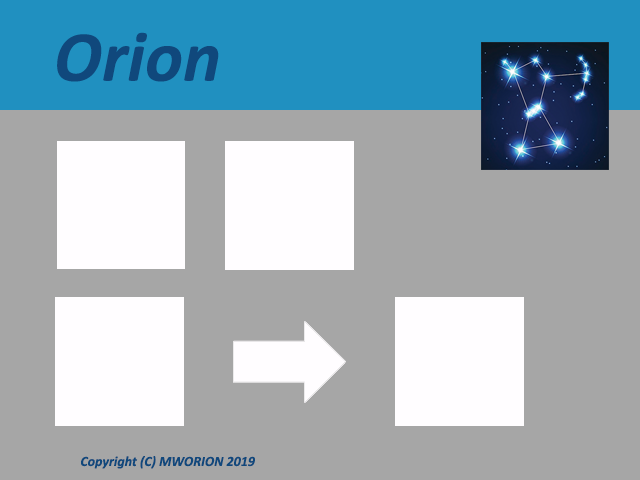
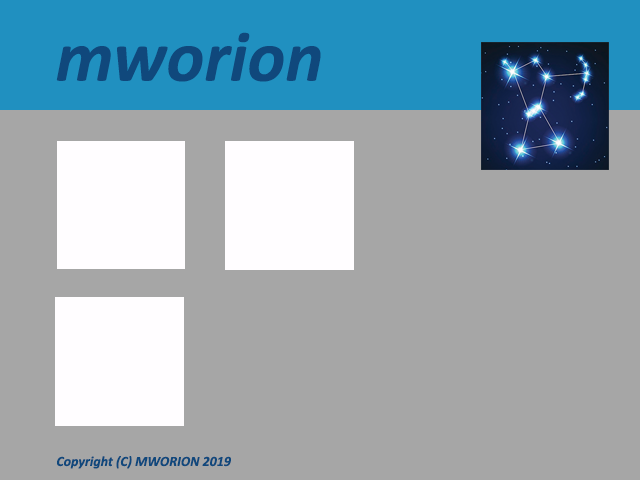
made dmg with web references

diff --git a/automation/remote_scripts/mac/dmg_settings.py b/automation/remote_scripts/mac/dmg_settings.py
@@ -45,11 +45,16 @@ format = defines.get('format', 'UDBZ')
 # Volume size
 size = defines.get('size', None)
 
+webloc_home = 'MW Home.webloc'
+webloc_docu = 'MW Docu.webloc'
+
 # Files to include
-files = [application]
+files = [application,
+         webloc_home,
+         webloc_docu]
 
 # Symlinks to create
-symlinks = {'Desktop': '/Users/mw/Desktop'}
+# symlinks = {'Desktop': '/Users/mw/Desktop'}
 
 # Volume icon
 #
@@ -60,10 +65,12 @@ symlinks = {'Desktop': '/Users/mw/Desktop'}
 icon = 'drive_mw4.icns'
 # badge_icon = 'drive_mw4.icns'
 
+
 # Where to put the icons
 icon_locations = {
+    webloc_home:    (120, 200),
+    webloc_docu:    (290, 200),
     appname:        (120, 360),
-    'Desktop':        (460, 360),
     }
 
 # .. Window configuration ......................................................

diff --git a/automation/collections/build_app.py b/automation/collections/build_app.py
@@ -65,20 +65,6 @@ def mac_local(c):
 
 
 @task(pre=[])
-def mac_local_work(c):
-    printMW('building mac app local work')
-    with c.cd('..'):
-        runMW(c, 'rm -rf dist/*.app')
-        runMW(c, 'rm -rf dist/*.dmg')
-    with c.cd('../../mountcontrol'):
-        runMW(c, 'pip install dist/mountcontrol-*.tar.gz')
-    with c.cd('../../indibase'):
-        runMW(c, 'pip install dist/indibase-*.tar.gz')
-    with c.cd('remote_scripts/mac'):
-        runMW(c, 'pyinstaller -y mw4_mac_local_work.spec')
-
-
-@task(pre=[])
 def mac(c):
     printMW('build mac app')
     with c.cd('..'):

diff --git a/automation/collections/build_dmg.py b/automation/collections/build_dmg.py
@@ -34,6 +34,8 @@ def mac(c):
         runMW(c, f'scp dmg_background.png {buildMAC}')
     with c.cd('remote_scripts/mac'):
         runMW(c, f'scp dmg_settings.py {buildMAC}')
+        runMW(c, f'scp "MW Home.webloc" {buildMAC}')
+        runMW(c, f'scp "MW Docu.webloc" {buildMAC}')
         runMW(c, f'ssh {userMAC} < build_mac_dmg.sh')
     with c.cd('..'):
         runMW(c, f'scp {buildMAC}/dist/MountWizzard4.dmg .')
